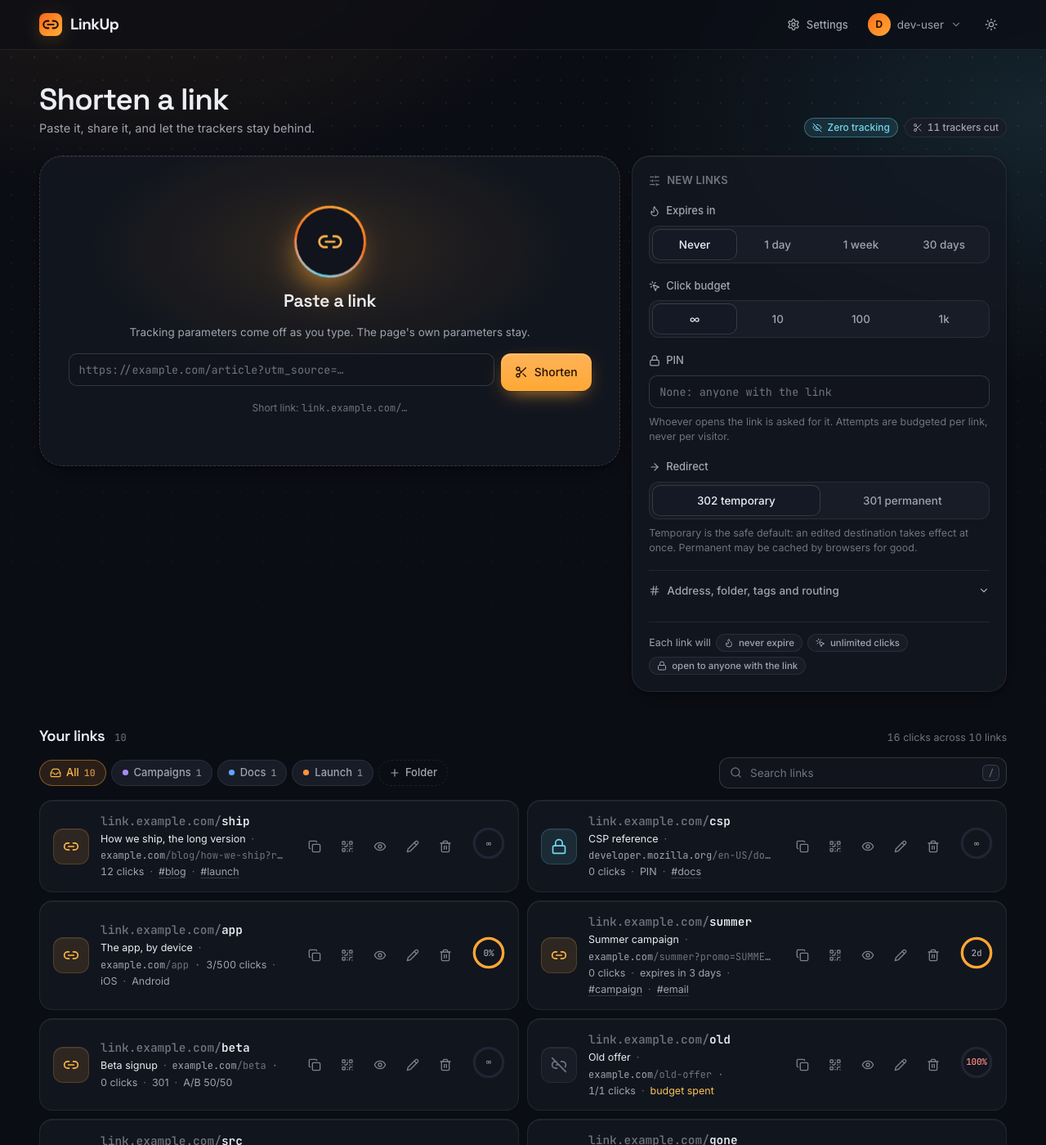
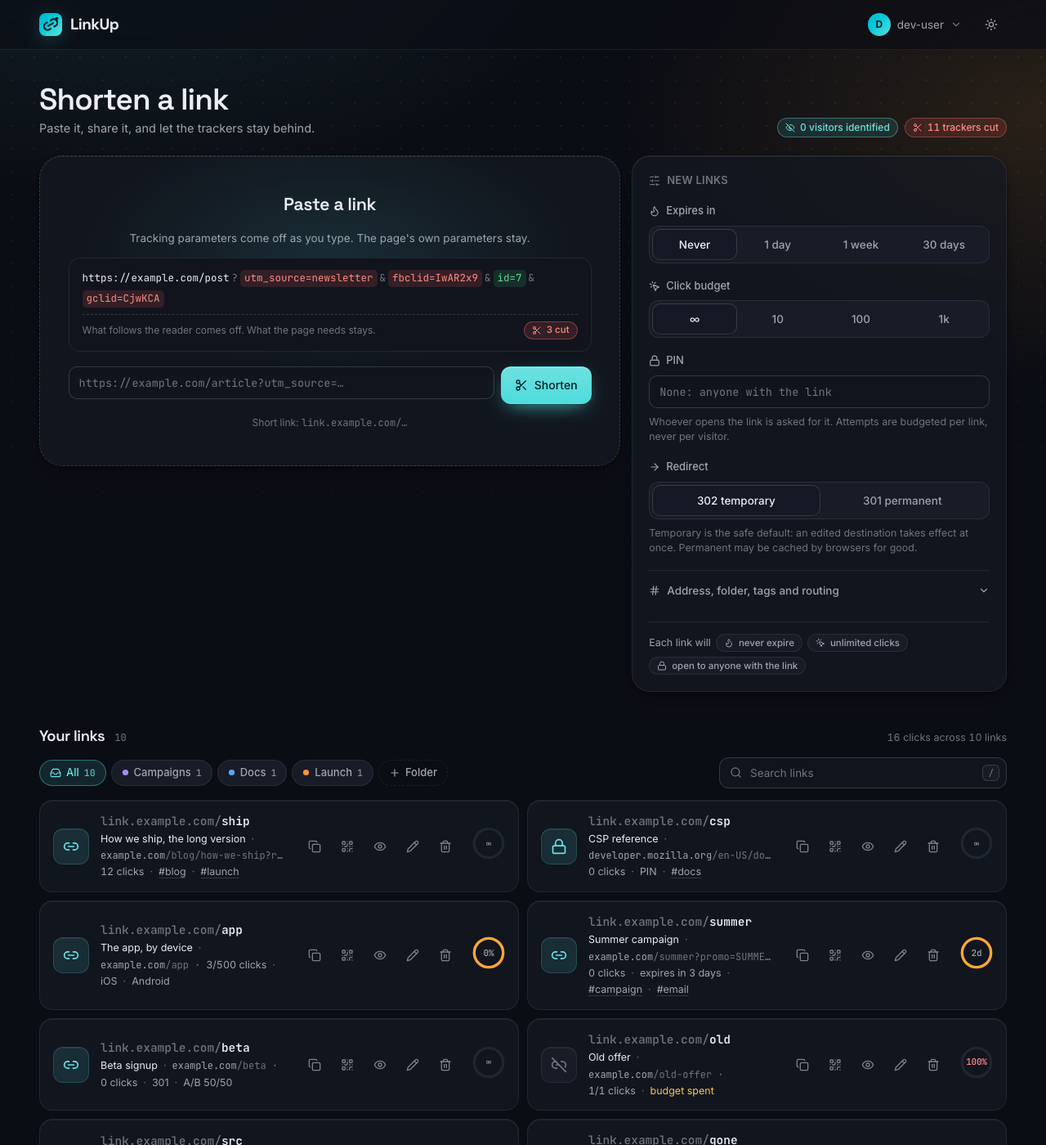
feat(web): LinkUp's own voice inside the family's system
The port of DocDrop's design system was a copy too direct to tell the two
apart. The system stays; what is LinkUp's now:

- A teal accent of its own for the brand, the primary action, the short
  link and everything about privacy. The family's ember stays for what
  runs out: the rings for expiry and click budgets. What was cut on the
  way through is danger red, struck through. The sibling tools keep
  green (TabUp), orange (Pixelforge) and ember (DocDrop), so the family
  reads as a family and each app as itself.
- A mark of its own: a link, tilted like a chain in motion, with the
  spark of a cut.
- The paste card shows the product instead of a borrowed decoration: an
  example URL losing its trackers on a loop, struck through one by one,
  until a real one is pasted and the live preview takes its place.
- The page head counts what LinkUp is about: trackers cut, and visitors
  identified, which is zero and cannot go up. The front page eyebrow says
  the same.

diff --git a/internal/web/static/css/app.css b/internal/web/static/css/app.css
@@ -5,11 +5,12 @@
    class for class): tokens first, then the reset and the canvas, then the
    components, then the screens. Two ideas carry the palette:
 
-   · EMBER — the warm accent. Links here end: they expire, they run out of
-     clicks. Everything that acts, counts down or asks for a decision is
-     ember.
-   · ICE — the cool accent, reserved for privacy: what is never read, what
-     is protected by a PIN, what was cut on the way through.
+   · TEAL — LinkUp's own accent, the clean signal: the brand, the primary
+     action, the short link, and everything about privacy — what is never
+     read, what a PIN protects.
+   · EMBER — the family's warm accent, kept here for what ends: a link that
+     expires, a click budget that runs out. What was cut on the way through
+     is danger red, struck through.
 
    Nothing here references another origin — the fonts ship inside the
    binary — and nothing needs an inline style: the policy says
@@ -38,36 +39,36 @@
   --surface: rgb(255 255 255 / 0.74); --surface-strong: #ffffff;
   --text: oklch(0.22 0.02 265); --text-2: oklch(0.47 0.02 265); --text-3: oklch(0.6 0.016 265); --text-inverse: #fff;
   --line: oklch(0.9 0.01 265); --line-2: oklch(0.83 0.012 265); --line-hi: rgb(255 255 255 / 0.9);
-  --accent: oklch(0.62 0.19 45); --accent-2: oklch(0.74 0.17 62); --accent-ink: #ffffff; --accent-text: oklch(0.52 0.18 40);
-  --accent-soft: oklch(0.62 0.19 45 / 0.1); --accent-soft-2: oklch(0.62 0.19 45 / 0.18); --accent-line: oklch(0.62 0.19 45 / 0.4);
-  --ice: oklch(0.56 0.12 225); --ice-text: oklch(0.46 0.11 225); --ice-soft: oklch(0.56 0.12 225 / 0.12); --ice-line: oklch(0.56 0.12 225 / 0.4);
+  --accent: oklch(0.56 0.12 195); --accent-2: oklch(0.7 0.13 180); --accent-ink: #ffffff; --accent-text: oklch(0.45 0.11 200);
+  --accent-soft: oklch(0.56 0.12 195 / 0.11); --accent-soft-2: oklch(0.56 0.12 195 / 0.2); --accent-line: oklch(0.56 0.12 195 / 0.42);
+  --ember: oklch(0.62 0.19 45); --ember-2: oklch(0.74 0.17 62); --ember-text: oklch(0.52 0.18 40); --ember-soft: oklch(0.62 0.19 45 / 0.12); --ember-line: oklch(0.62 0.19 45 / 0.4);
   --ok: oklch(0.6 0.16 150); --ok-text: oklch(0.48 0.14 150); --ok-soft: oklch(0.6 0.16 150 / 0.12);
   --warn: oklch(0.72 0.16 75); --warn-text: oklch(0.52 0.13 68); --warn-soft: oklch(0.72 0.16 75 / 0.14); --warn-line: oklch(0.72 0.16 75 / 0.45);
   --danger: oklch(0.6 0.2 25); --danger-text: oklch(0.52 0.19 25); --danger-soft: oklch(0.6 0.2 25 / 0.1); --danger-line: oklch(0.6 0.2 25 / 0.4);
   --shadow-sm: 0 1px 2px rgb(20 24 40 / 0.06), 0 1px 1px rgb(20 24 40 / 0.04);
   --shadow: 0 10px 30px -12px rgb(20 24 40 / 0.2), 0 2px 6px rgb(20 24 40 / 0.05);
   --shadow-lg: 0 30px 70px -24px rgb(20 24 40 / 0.35), 0 4px 12px rgb(20 24 40 / 0.06);
-  --glow: 0 0 0 1px var(--accent-line), 0 16px 48px -14px oklch(0.62 0.19 45 / 0.55);
-  --focus: 0 0 0 3px oklch(0.62 0.19 45 / 0.32);
-  --backdrop: rgb(22 26 40 / 0.4); --selection: oklch(0.62 0.19 45 / 0.25); --scrollbar: oklch(0.8 0.012 265);
+  --glow: 0 0 0 1px var(--accent-line), 0 16px 48px -14px oklch(0.56 0.12 195 / 0.55);
+  --focus: 0 0 0 3px oklch(0.56 0.12 195 / 0.32);
+  --backdrop: rgb(22 26 40 / 0.4); --selection: oklch(0.56 0.12 195 / 0.25); --scrollbar: oklch(0.8 0.012 265);
 }
 html.dark {
   --bg: #0b0d14; --bg-2: #11141d; --bg-3: #181c27; --bg-4: #202533;
   --surface: rgb(19 23 33 / 0.72); --surface-strong: #151925;
   --text: oklch(0.95 0.008 265); --text-2: oklch(0.72 0.015 265); --text-3: oklch(0.56 0.015 265); --text-inverse: #0b0d14;
   --line: rgb(255 255 255 / 0.08); --line-2: rgb(255 255 255 / 0.15); --line-hi: rgb(255 255 255 / 0.07);
-  --accent: oklch(0.8 0.16 68); --accent-2: oklch(0.7 0.19 45); --accent-ink: oklch(0.2 0.045 55); --accent-text: oklch(0.83 0.15 72);
-  --accent-soft: oklch(0.8 0.16 68 / 0.12); --accent-soft-2: oklch(0.8 0.16 68 / 0.2); --accent-line: oklch(0.8 0.16 68 / 0.42);
-  --ice: oklch(0.8 0.11 215); --ice-text: oklch(0.83 0.1 215); --ice-soft: oklch(0.8 0.11 215 / 0.12); --ice-line: oklch(0.8 0.11 215 / 0.4);
+  --accent: oklch(0.82 0.12 195); --accent-2: oklch(0.72 0.14 210); --accent-ink: oklch(0.2 0.04 210); --accent-text: oklch(0.85 0.11 195);
+  --accent-soft: oklch(0.82 0.12 195 / 0.12); --accent-soft-2: oklch(0.82 0.12 195 / 0.2); --accent-line: oklch(0.82 0.12 195 / 0.42);
+  --ember: oklch(0.8 0.16 68); --ember-2: oklch(0.7 0.19 45); --ember-text: oklch(0.83 0.15 72); --ember-soft: oklch(0.8 0.16 68 / 0.12); --ember-line: oklch(0.8 0.16 68 / 0.4);
   --ok: oklch(0.75 0.16 155); --ok-text: oklch(0.8 0.15 155); --ok-soft: oklch(0.75 0.16 155 / 0.14);
   --warn: oklch(0.8 0.15 80); --warn-text: oklch(0.85 0.14 82); --warn-soft: oklch(0.8 0.15 80 / 0.14); --warn-line: oklch(0.8 0.15 80 / 0.4);
   --danger: oklch(0.7 0.19 25); --danger-text: oklch(0.78 0.16 25); --danger-soft: oklch(0.7 0.19 25 / 0.14); --danger-line: oklch(0.7 0.19 25 / 0.4);
   --shadow-sm: 0 1px 2px rgb(0 0 0 / 0.4);
   --shadow: 0 10px 30px -12px rgb(0 0 0 / 0.6), 0 2px 6px rgb(0 0 0 / 0.3);
   --shadow-lg: 0 30px 80px -24px rgb(0 0 0 / 0.7), 0 4px 14px rgb(0 0 0 / 0.35);
-  --glow: 0 0 0 1px var(--accent-line), 0 16px 48px -12px oklch(0.8 0.16 68 / 0.5);
-  --focus: 0 0 0 3px oklch(0.8 0.16 68 / 0.35);
-  --backdrop: rgb(2 4 10 / 0.6); --selection: oklch(0.8 0.16 68 / 0.3); --scrollbar: oklch(0.35 0.015 265);
+  --glow: 0 0 0 1px var(--accent-line), 0 16px 48px -12px oklch(0.82 0.12 195 / 0.5);
+  --focus: 0 0 0 3px oklch(0.82 0.12 195 / 0.35);
+  --backdrop: rgb(2 4 10 / 0.6); --selection: oklch(0.82 0.12 195 / 0.3); --scrollbar: oklch(0.35 0.015 265);
 }
 
 /* ── Reset, typography and the canvas ───────────────────────────────────── */
@@ -91,7 +92,7 @@ main { flex: 1; }
   position: fixed; inset: 0; z-index: -1; pointer-events: none;
   background:
     radial-gradient(60rem 36rem at 12% -10%, var(--accent-soft), transparent 65%),
-    radial-gradient(48rem 30rem at 100% 10%, var(--ice-soft), transparent 68%);
+    radial-gradient(48rem 30rem at 100% 10%, var(--ember-soft), transparent 68%);
 }
 .canvas::after {
   content: ""; position: absolute; inset: 0;
@@ -255,12 +256,7 @@ html.dark .theme-toggle .i-moon { display: none; }
 .paste:focus-within, .dz:hover, .dz:focus-within, .dz.is-over { border-color: var(--accent-line); }
 .paste:focus-within { box-shadow: var(--glow); }
 .paste-body, .dz-body { display: grid; justify-items: center; gap: 12px; width: 100%; max-width: 40rem; }
-.dz-orb { position: relative; width: 88px; height: 88px; display: grid; place-items: center; border-radius: 50%; animation: float 6s ease-in-out infinite; }
-.dz-orb::before { content: ""; position: absolute; inset: 0; border-radius: 50%; background: conic-gradient(from 0deg, var(--accent), var(--accent-2), var(--ice), var(--accent-2), var(--accent)); animation: spin 14s linear infinite; box-shadow: 0 18px 44px -14px var(--accent); }
-.dz-orb::after { content: ""; position: absolute; inset: 3px; border-radius: 50%; background: var(--bg-2); }
-.dz-orb > svg { position: relative; z-index: 1; width: 32px; height: 32px; color: var(--accent-text); transition: transform var(--t) var(--ease-spring); }
-.paste:focus-within .dz-orb { animation: pulse-ring 1s ease-out infinite; }
-.paste:focus-within .dz-orb > svg { transform: scale(1.1); }
+.paste-body { gap: 14px; }
 .dz-title { font-family: var(--font-display); font-size: 1.35rem; font-weight: 600; letter-spacing: -0.02em; }
 .dz-sub { font-size: 13.5px; color: var(--text-2); }
 .dz-fine { font-size: 12px; color: var(--text-3); }
@@ -268,6 +264,24 @@ html.dark .theme-toggle .i-moon { display: none; }
 .dz-fine.strip-hint > svg { width: 14px; height: 14px; }
 .dz-compact { min-height: 0; padding: 20px 16px; }
 .dz-compact .dz-title { font-size: 1rem; }
+/* The shredder: an example URL losing its trackers, on a loop, while the
+   card is empty. Not a decoration borrowed from anywhere: it is the product,
+   shown rather than described. The real preview replaces it on typing. */
+.shred { display: grid; gap: 8px; width: 100%; padding: 14px 16px; border-radius: 14px; border: 1px solid var(--line); background: var(--bg-2); text-align: left; }
+.shred-line { display: flex; flex-wrap: wrap; align-items: center; row-gap: 4px; font-family: var(--font-mono); font-size: 12.5px; line-height: 1.5; color: var(--text-2); }
+.shred .base { color: var(--text); }
+.shred .sep { color: var(--text-3); margin: 0 3px; }
+.shred .keep, .shred .cut { position: relative; padding: 1px 5px; border-radius: 5px; }
+.shred .keep { color: var(--ok-text); background: var(--ok-soft); }
+.shred .cut { color: var(--danger-text); background: var(--danger-soft); animation: fade-cut 7s var(--ease) infinite; }
+.shred .cut::after { content: ""; position: absolute; left: 5px; right: 5px; top: 50%; height: 1.5px; background: var(--danger); transform: scaleX(0); transform-origin: left; animation: strike 7s var(--ease) infinite; }
+.shred .c1, .shred .c1::after { animation-delay: 0.6s; }
+.shred .c2, .shred .c2::after { animation-delay: 1.1s; }
+.shred .c3, .shred .c3::after { animation-delay: 1.6s; }
+@keyframes strike { 0%, 8% { transform: scaleX(0); } 18%, 78% { transform: scaleX(1); } 88%, 100% { transform: scaleX(0); } }
+@keyframes fade-cut { 0%, 18% { opacity: 1; } 40%, 78% { opacity: 0.55; } 90%, 100% { opacity: 1; } }
+.shred-foot { display: flex; flex-wrap: wrap; align-items: center; justify-content: space-between; gap: 6px 10px; padding-top: 8px; border-top: 1px dashed var(--line-2); font-size: 12px; color: var(--text-3); }
+.shred-foot .badge { height: 22px; font-size: 11.5px; }
 .paste-row { display: flex; gap: 8px; width: 100%; margin-top: 4px; }
 .paste-input { flex: 1; min-width: 0; height: 46px; font-family: var(--font-mono); font-size: 13.5px; border-radius: 12px; }
 .paste-row .btn { height: 46px; border-radius: 12px; flex: none; }
@@ -346,7 +360,7 @@ html.dark input[type="datetime-local"].input { color-scheme: dark; }
 /* ── Badges, chips and the search ───────────────────────────────────────── */
 .badge { display: inline-flex; align-items: center; gap: 6px; height: 24px; padding: 0 9px; border-radius: 999px; border: 1px solid var(--line); background: var(--bg-3); font-size: 12px; font-weight: 500; color: var(--text-2); white-space: nowrap; }
 .badge > svg { width: 12px; height: 12px; }
-.badge[data-tone="ice"] { color: var(--ice-text); background: var(--ice-soft); border-color: var(--ice-line); }
+.badge[data-tone="ember"] { color: var(--ember-text); background: var(--ember-soft); border-color: var(--ember-line); }
 .badge[data-tone="accent"] { color: var(--accent-text); background: var(--accent-soft); border-color: var(--accent-line); }
 .badge[data-tone="danger"] { color: var(--danger-text); background: var(--danger-soft); border-color: var(--danger-line); }
 .badge[data-tone="ok"] { color: var(--ok-text); background: var(--ok-soft); border-color: color-mix(in srgb, var(--ok) 40%, transparent); }
@@ -377,9 +391,9 @@ html.dark input[type="datetime-local"].input { color-scheme: dark; }
 .ring { position: relative; display: inline-grid; place-items: center; flex: none; }
 .ring svg { transform: rotate(-90deg); stroke: none; }
 .ring-track { stroke: var(--bg-4); }
-.ring-bar { stroke: var(--accent); stroke-linecap: round; transition: stroke-dashoffset var(--t-slow) var(--ease); }
+.ring-bar { stroke: var(--ember); stroke-linecap: round; transition: stroke-dashoffset var(--t-slow) var(--ease); }
 .ring[data-tone="danger"] .ring-bar { stroke: var(--danger); }
-.ring[data-tone="ice"] .ring-bar { stroke: var(--ice); }
+.ring[data-tone="accent"] .ring-bar { stroke: var(--accent); }
 .ring[data-tone="ok"] .ring-bar { stroke: var(--ok); }
 .ring-label { position: absolute; inset: 0; display: grid; place-items: center; font-family: var(--font-mono); font-size: 11px; font-weight: 500; color: var(--text-2); letter-spacing: -0.02em; }
 .ring[data-tone="danger"] .ring-label { color: var(--danger-text); }
@@ -390,8 +404,8 @@ html.dark input[type="datetime-local"].input { color-scheme: dark; }
 .note-title { display: flex; align-items: center; gap: 8px; color: var(--text); font-weight: 600; }
 .note-title > svg { width: 15px; height: 15px; flex: none; }
 .note-title .btn { margin-left: auto; margin-block: -6px; }
-.note[data-tone="ice"] { border-color: var(--ice-line); background: var(--ice-soft); }
-.note[data-tone="ice"] .note-title { color: var(--ice-text); }
+.note[data-tone="ember"] { border-color: var(--ember-line); background: var(--ember-soft); }
+.note[data-tone="ember"] .note-title { color: var(--ember-text); }
 .note[data-tone="warn"] { border-color: var(--warn-line); background: var(--warn-soft); }
 .note[data-tone="warn"] .note-title { color: var(--warn-text); }
 .note[data-tone="danger"] { border-color: var(--danger-line); background: var(--danger-soft); color: var(--danger-text); }
@@ -417,7 +431,8 @@ html.dark input[type="datetime-local"].input { color-scheme: dark; }
 .fi-sm { width: 36px; height: 36px; border-radius: 10px; }
 .fi-sm > svg { width: 17px; height: 17px; }
 .fi[data-kind="link"] { --fi-color: var(--accent-text); --fi-bg: var(--accent-soft); }
-.fi[data-kind="pin"] { --fi-color: var(--ice-text); --fi-bg: var(--ice-soft); }
+.fi[data-kind="ember"] { --fi-color: var(--ember-text); --fi-bg: var(--ember-soft); }
+.fi[data-kind="pin"] { --fi-color: var(--accent-text); --fi-bg: var(--accent-soft); }
 .fi[data-kind="off"] { --fi-color: var(--text-3); --fi-bg: var(--bg-3); }
 
 /* ── Link cards ─────────────────────────────────────────────────────────── */
@@ -508,7 +523,7 @@ html.dark input[type="datetime-local"].input { color-scheme: dark; }
 .toast-icon > svg { width: 14px; height: 14px; }
 .toast[data-kind="success"] .toast-icon { background: var(--ok-soft); color: var(--ok-text); }
 .toast[data-kind="error"] .toast-icon { background: var(--danger-soft); color: var(--danger-text); }
-.toast[data-kind="info"] .toast-icon { background: var(--ice-soft); color: var(--ice-text); }
+.toast[data-kind="info"] .toast-icon { background: var(--ember-soft); color: var(--ember-text); }
 .toast-body { flex: 1; min-width: 0; font-size: 13.5px; }
 .toast-body strong { display: block; font-weight: 600; }
 .toast-body span { display: block; color: var(--text-2); overflow-wrap: anywhere; }
@@ -540,12 +555,12 @@ html.dark input[type="datetime-local"].input { color-scheme: dark; }
 .feature { position: relative; display: grid; align-content: start; gap: 10px; padding: 22px; overflow: hidden; transition: transform var(--t) var(--ease), border-color var(--t); }
 .feature:hover { transform: translateY(-3px); border-color: var(--accent-line); }
 .feature::after { content: ""; position: absolute; right: -30px; bottom: -40px; width: 120px; height: 120px; border-radius: 50%; background: var(--accent); opacity: 0.06; filter: blur(22px); pointer-events: none; }
-.feature[data-tone="ice"]::after { background: var(--ice); }
+.feature[data-tone="ember"]::after { background: var(--ember); }
 .feature h3 { font-size: 1.02rem; }
 .feature p { font-size: 14px; color: var(--text-2); line-height: 1.55; }
 .feature code { font-size: 12.5px; padding: 1px 5px; border-radius: 5px; background: var(--bg-3); color: var(--text); }
 .feature-icon { display: grid; place-items: center; width: 40px; height: 40px; border-radius: 12px; background: var(--accent-soft); color: var(--accent-text); }
-.feature[data-tone="ice"] .feature-icon { background: var(--ice-soft); color: var(--ice-text); }
+.feature[data-tone="ember"] .feature-icon { background: var(--ember-soft); color: var(--ember-text); }
 .feature-icon > svg { width: 19px; height: 19px; }
 .eyebrow { display: inline-flex; align-items: center; gap: 8px; font-family: var(--font-mono); font-size: 11.5px; font-weight: 500; letter-spacing: 0.12em; text-transform: uppercase; color: var(--accent-text); }
 .eyebrow::before { content: ""; width: 6px; height: 6px; border-radius: 50%; background: var(--accent); box-shadow: 0 0 0 4px var(--accent-soft-2); }
@@ -629,7 +644,7 @@ html.dark input[type="datetime-local"].input { color-scheme: dark; }
 .land-fine { display: grid; gap: 4px; font-size: 13px; color: var(--text-3); }
 .land-fine a { color: var(--text-2); text-decoration: underline; text-underline-offset: 3px; text-decoration-color: var(--line-2); }
 .demo-wrap { position: relative; max-width: 32rem; margin-inline: auto; width: 100%; }
-.demo-wrap::before { content: ""; position: absolute; inset: -12%; z-index: -1; border-radius: 50%; background: radial-gradient(50% 50% at 40% 40%, var(--accent-soft-2), transparent 70%), radial-gradient(40% 40% at 70% 70%, var(--ice-soft), transparent 70%); filter: blur(30px); }
+.demo-wrap::before { content: ""; position: absolute; inset: -12%; z-index: -1; border-radius: 50%; background: radial-gradient(50% 50% at 40% 40%, var(--accent-soft-2), transparent 70%), radial-gradient(40% 40% at 70% 70%, var(--ember-soft), transparent 70%); filter: blur(30px); }
 .demo { overflow: hidden; animation: rise var(--t-slow) var(--ease) both; }
 .demo-top { display: flex; align-items: center; gap: 10px; padding: 14px 18px; border-bottom: 1px solid var(--line); font-size: 13px; font-weight: 600; }
 .demo-top > svg { width: 15px; height: 15px; color: var(--accent-text); }
@@ -653,5 +668,5 @@ html.dark input[type="datetime-local"].input { color-scheme: dark; }
 .drops { position: absolute; inset: 0; z-index: -1; pointer-events: none; overflow: hidden; }
 .drops > span { position: absolute; width: 220px; height: 220px; border-radius: 50%; filter: blur(40px); opacity: 0.55; animation: float 9s ease-in-out infinite; }
 .drops > span:nth-child(1) { left: -60px; top: 10%; background: var(--accent-soft-2); }
-.drops > span:nth-child(2) { right: 5%; top: -40px; width: 300px; height: 300px; background: var(--ice-soft); animation-delay: -3s; }
+.drops > span:nth-child(2) { right: 5%; top: -40px; width: 300px; height: 300px; background: var(--ember-soft); animation-delay: -3s; }
 .drops > span:nth-child(3) { right: 30%; bottom: -80px; background: var(--accent-soft); animation-delay: -6s; }

diff --git a/internal/web/templates/landing.html b/internal/web/templates/landing.html
@@ -4,7 +4,7 @@
     <div class="drops" aria-hidden="true"><span></span><span></span><span></span></div>
     <div class="container land-hero-grid">
       <div class="land-copy rise">
-        <span class="eyebrow">Self-hosted · zero tracking</span>
+        <span class="eyebrow">Self-hosted · 0 visitors identified</span>
         <h1 class="land-h1">A short link that <span class="ember-text">does not watch</span> who clicks it.</h1>
         <p class="land-lede">Most shorteners are surveillance with a convenience feature attached. This one keeps the convenience: it strips the tracking parameters from your destination, leaves the ones the page needs, and never reads the address of the person who clicked.</p>
         <div class="land-cta">
@@ -25,7 +25,7 @@
           <div class="demo-top">
             <svg aria-hidden="true"><use href="#i-scissors"/></svg>
             <span>See what comes off</span>
-            <span class="badge demo-badge" data-tone="ice"><svg aria-hidden="true"><use href="#i-eye-off"/></svg>Runs in your browser</span>
+            <span class="badge demo-badge" data-tone="accent"><svg aria-hidden="true"><use href="#i-eye-off"/></svg>Runs in your browser</span>
           </div>
           <div class="demo-input">
             <label class="visually-hidden" for="demo-url">A URL to clean</label>
@@ -87,7 +87,7 @@
           <h3>Strips the tracking, keeps the link working</h3>
           <p>Removing query parameters is easy. Removing only the ones that track you, and leaving the ones the page needs, is the whole job. <code>utm_*</code>, <code>fbclid</code>, <code>gclid</code> go; <code>id=7</code> stays.</p>
         </li>
-        <li class="card feature" data-tone="ice">
+        <li class="card feature" data-tone="ember">
           <span class="feature-icon"><svg aria-hidden="true"><use href="#i-eye-off"/></svg></span>
           <h3>A visitor's address is never read</h3>
           <p>Not logged, not hashed, not counted. Counters are aggregate: total clicks and when the last one happened. Nothing that reconstructs who went where.</p>
@@ -102,7 +102,7 @@
           <h3>Links that end themselves</h3>
           <p>A PIN in front, an expiry date, or a click budget after which the link self-destructs. Unlock attempts are limited per link, not per visitor, because there is no visitor to limit.</p>
         </li>
-        <li class="card feature" data-tone="ice">
+        <li class="card feature" data-tone="ember">
           <span class="feature-icon"><svg aria-hidden="true"><use href="#i-globe"/></svg></span>
           <h3>Your own domains</h3>
           <p>Point a domain you own at it and short links come out under your name. Several at once, if you keep projects apart. No cookies for visitors on any of them.</p>

diff --git a/internal/web/templates/dashboard.html b/internal/web/templates/dashboard.html
@@ -6,8 +6,8 @@
       <p>Paste it, share it, and let the trackers stay behind.</p>
     </div>
     <div class="tools">
-      <span class="badge" data-tone="ice" title="No visitor address is ever read"><svg aria-hidden="true"><use href="#i-eye-off"/></svg>Zero tracking</span>
-      <span class="badge" title="Tracking parameters cut before storing, across all your links"><svg aria-hidden="true"><use href="#i-scissors"/></svg><span><span class="num">{{num .TotalStripped}}</span> trackers cut</span></span>
+      <span class="badge" data-tone="accent" title="No visitor address, User-Agent or cookie is ever stored. That number cannot go up."><svg aria-hidden="true"><use href="#i-eye-off"/></svg><span><span class="num">0</span> visitors identified</span></span>
+      <span class="badge" data-tone="danger" title="Tracking parameters cut before storing, across all your links"><svg aria-hidden="true"><use href="#i-scissors"/></svg><span><span class="num">{{num .TotalStripped}}</span> trackers cut</span></span>
     </div>
   </div>
 
@@ -22,9 +22,12 @@
       <div class="dash-grid">
         <div class="paste">
           <div class="paste-body">
-            <div class="dz-orb" aria-hidden="true"><svg><use href="#i-link"/></svg></div>
             <p class="dz-title">Paste a link</p>
             <p class="dz-sub">Tracking parameters come off as you type. The page's own parameters stay.</p>
+            <div class="shred" id="shred" aria-hidden="true">
+              <p class="shred-line"><span class="base">https://example.com/post</span><span class="sep">?</span><span class="cut c1">utm_source=newsletter</span><span class="sep">&amp;</span><span class="cut c2">fbclid=IwAR2x9</span><span class="sep">&amp;</span><span class="keep">id=7</span><span class="sep">&amp;</span><span class="cut c3">gclid=CjwKCA</span></p>
+              <p class="shred-foot"><span>What follows the reader comes off. What the page needs stays.</span><span class="badge" data-tone="danger"><svg aria-hidden="true"><use href="#i-scissors"/></svg>3 cut</span></p>
+            </div>
             <label class="visually-hidden" for="url">Destination URL</label>
             <div class="paste-row">
               <input type="text" id="url" name="url" class="input paste-input" placeholder="https://example.com/article?utm_source=…" required spellcheck="false" inputmode="url" enterkeyhint="go">

diff --git a/internal/web/templates/layout.html b/internal/web/templates/layout.html
@@ -27,9 +27,9 @@
        display:none subtree is not a paint server, and the mark went blank. */}}
   <svg class="sprite" aria-hidden="true" focusable="false" xmlns="http://www.w3.org/2000/svg">
     <defs>
-      <linearGradient id="lk-ember" x1="4" y1="4" x2="28" y2="28" gradientUnits="userSpaceOnUse"><stop offset="0" stop-color="var(--accent-2)"/><stop offset="1" stop-color="var(--accent)"/></linearGradient>
+      <linearGradient id="lk-grad" x1="4" y1="4" x2="28" y2="28" gradientUnits="userSpaceOnUse"><stop offset="0" stop-color="var(--accent-2)"/><stop offset="1" stop-color="var(--accent)"/></linearGradient>
     </defs>
-    <symbol id="mark" viewBox="0 0 32 32"><rect width="32" height="32" rx="9" fill="url(#lk-ember)"/><g fill="none" stroke="var(--accent-ink)" stroke-width="2.4" stroke-linecap="round" stroke-linejoin="round" transform="translate(4 4)"><path d="M9 17H7A5 5 0 0 1 7 7h2"/><path d="M15 7h2a5 5 0 1 1 0 10h-2"/><line x1="8" x2="16" y1="12" y2="12"/></g></symbol>
+    <symbol id="mark" viewBox="0 0 32 32"><rect width="32" height="32" rx="9" fill="url(#lk-grad)"/><g fill="none" stroke="var(--accent-ink)" stroke-width="2.4" stroke-linecap="round" stroke-linejoin="round" transform="rotate(-30 16 16) translate(4 4)"><path d="M9 17H7A5 5 0 0 1 7 7h2"/><path d="M15 7h2a5 5 0 1 1 0 10h-2"/><line x1="8" x2="11" y1="12" y2="12"/><line x1="13" x2="16" y1="12" y2="12"/></g><circle cx="24.5" cy="7.5" r="2.2" fill="var(--accent-ink)" stroke="none"/></symbol>
     <symbol id="i-link" viewBox="0 0 24 24"><path d="M9 17H7A5 5 0 0 1 7 7h2"/><path d="M15 7h2a5 5 0 1 1 0 10h-2"/><line x1="8" x2="16" y1="12" y2="12"/></symbol>
     <symbol id="i-link-off" viewBox="0 0 24 24"><path d="M9 17H7A5 5 0 0 1 7 7"/><path d="M15 7h2a5 5 0 0 1 4 8"/><line x1="8" x2="12" y1="12" y2="12"/><line x1="2" x2="22" y1="2" y2="22"/></symbol>
     <symbol id="i-copy" viewBox="0 0 24 24"><rect width="14" height="14" x="8" y="8" rx="2" ry="2"/><path d="M4 16c-1.1 0-2-.9-2-2V4c0-1.1.9-2 2-2h10c1.1 0 2 .9 2 2"/></symbol>

diff --git a/internal/web/templates/preview.html b/internal/web/templates/preview.html
@@ -4,8 +4,8 @@
     <span class="fi fi-lg" data-kind="{{if .HasPIN}}pin{{else}}link{{end}}" aria-hidden="true"><svg><use href="#{{if .HasPIN}}i-lock{{else}}i-link{{end}}"/></svg></span>
     <h1>Where this link goes</h1>
     <div class="sub">
-      <span class="badge" data-tone="ice"><svg aria-hidden="true"><use href="#i-eye-off"/></svg>No visitor tracking</span>
-      {{if .HasPIN}}<span class="badge" data-tone="ice"><svg aria-hidden="true"><use href="#i-lock"/></svg>PIN protected</span>{{end}}
+      <span class="badge" data-tone="accent"><svg aria-hidden="true"><use href="#i-eye-off"/></svg>No visitor tracking</span>
+      {{if .HasPIN}}<span class="badge" data-tone="accent"><svg aria-hidden="true"><use href="#i-lock"/></svg>PIN protected</span>{{end}}
       {{if .StrippedParams}}<span class="badge" data-tone="accent"><svg aria-hidden="true"><use href="#i-scissors"/></svg>{{len .StrippedParams}} tracking {{if eq (len .StrippedParams) 1}}parameter{{else}}parameters{{end}} cut</span>{{end}}
     </div>
     <p class="dl-lede">The destination, with the tracking parameters already removed. Nothing about you was read to show it.</p>

diff --git a/internal/web/static/js/app.js b/internal/web/static/js/app.js
@@ -376,9 +376,10 @@
     const count = $('#strip-count');
     const badges = $('#strip-badges');
     const hint = $('#strip-hint');
+    const shred = $('#shred');
     let timer = 0;
     let seq = 0;
-    const hide = () => { box.hidden = true; hint.hidden = true; };
+    const hide = () => { box.hidden = true; hint.hidden = true; if (shred) shred.hidden = false; };
 
     on(input, 'input', () => {
       clearTimeout(timer);
@@ -397,9 +398,11 @@
           box.classList.toggle('is-clean', stripped.length === 0);
           box.hidden = false;
           hint.hidden = true;
+          if (shred) shred.hidden = true;
         } catch (err) {
           if (mine !== seq) return;
           box.hidden = true;
+          if (shred) shred.hidden = true;
           hint.textContent = '';
           hint.appendChild(icon('i-alert'));
           hint.appendChild(document.createTextNode(err.message));

diff --git a/CHANGELOG.md b/CHANGELOG.md
@@ -18,6 +18,13 @@ versioning follows [Semantic Versioning](https://semver.org/).
   `localStorage.theme` contract (`dark`, `light` or `system`) as the other
   tools and resolved before the first paint; `?theme=light|dark` on any
   address forces one look for that page load.
+- **And a voice of its own inside that system.** LinkUp's accent is a teal
+  of its own (the family's ember stays for what runs out: expiry rings and
+  click budgets), the mark is a tilted link with the spark of a cut, and the
+  paste card shows the product instead of a decoration: an example URL
+  losing its trackers on a loop until you paste one. The page head counts
+  what LinkUp is about: trackers cut, and visitors identified, which is
+  zero and cannot go up.
 - **The dashboard reads like DocDrop's.** A paste card where the drop zone
   would be, with the strip preview showing the pasted URL with the tracking
   parameters struck through next to what will be stored; a "New links"
